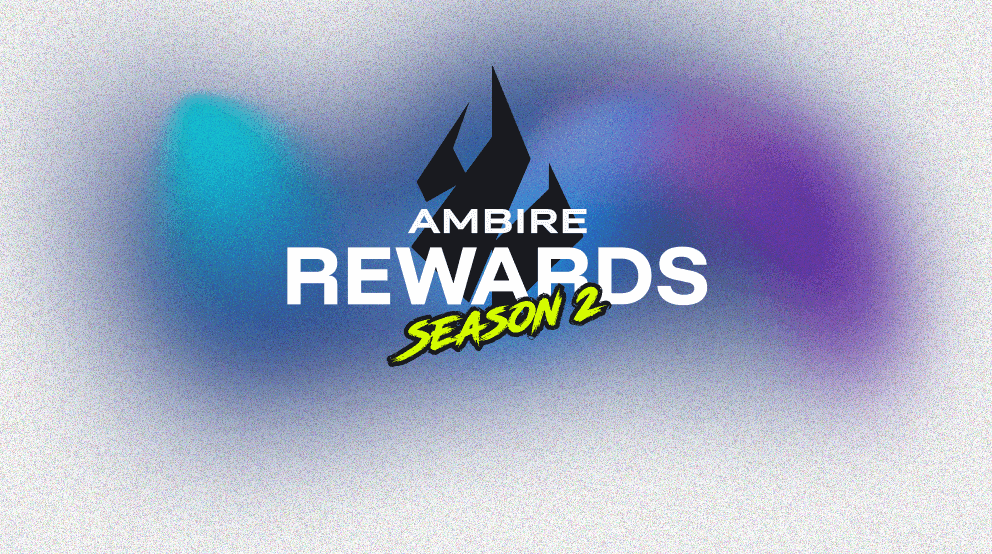
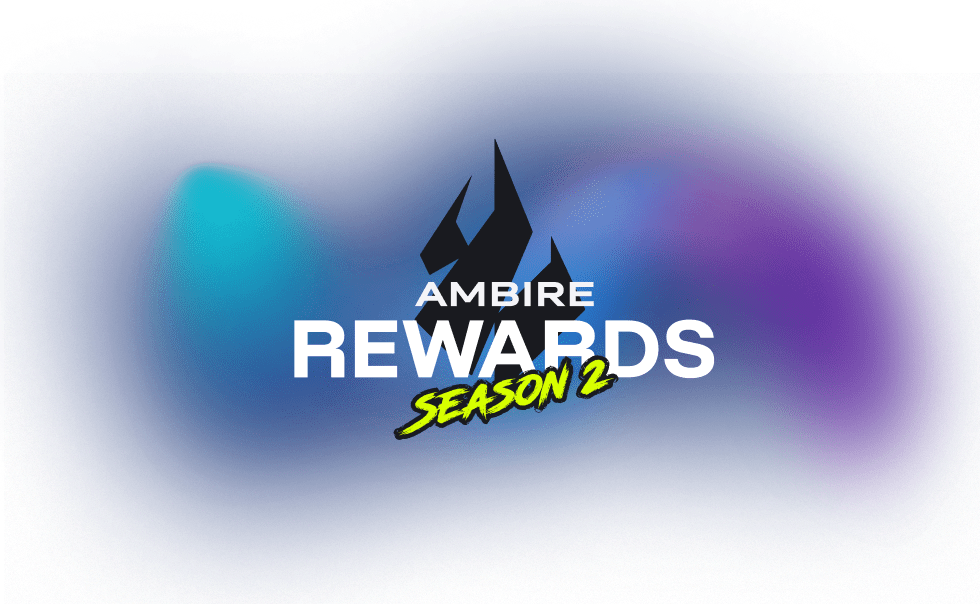
fix: rewards s2 modal

diff --git a/src/legends/components/Season2Modal/Season2Modal.module.scss b/src/legends/components/Season2Modal/Season2Modal.module.scss
@@ -3,14 +3,14 @@
 .wrapper {
   max-width: 62.5rem;
   width: 100%;
-  min-height: 32.5rem;
+  min-height: 34.375rem;
   display: flex;
   padding: 0;
   overflow: hidden;
 
   .content {
     flex: 1;
-    background-position: center;
+    background-position: center -5rem;
     background-size: cover;
     background-repeat: no-repeat;
     display: flex;
